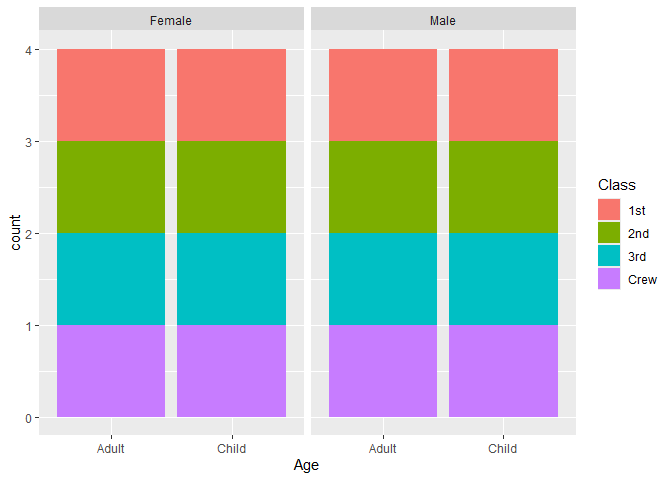
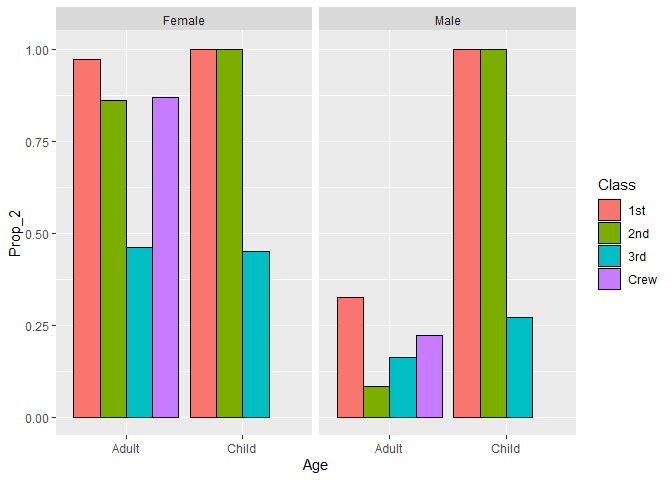
Resubmission for Challenge 01

diff --git a/challenges/c01-titanic-assignment.md b/challenges/c01-titanic-assignment.md
@@ -113,12 +113,6 @@ glimpse(df_titanic)
     ## $ Survived <chr> "No", "No", "No", "No", "No", "No", "No", "No", "No", "No", "…
     ## $ n        <dbl> 0, 0, 35, 0, 0, 0, 17, 0, 118, 154, 387, 670, 4, 13, 89, 3, 5…
 
-``` r
-?Titanic
-```
-
-    ## starting httpd help server ... done
-
 **Observations**:
 
 - Within the data of ‘df_titanic’, we can see the demographic of the
@@ -132,7 +126,8 @@ glimpse(df_titanic)
 ``` r
 ## NOTE: No need to edit! We'll cover how to
 ## do this calculation in a later exercise.
-df_titanic %>% summarize(total = sum(n))
+df_titanic %>% 
+  summarize(total = sum(n))
 ```
 
     ## # A tibble: 1 × 1
@@ -143,17 +138,25 @@ df_titanic %>% summarize(total = sum(n))
 **Observations**:
 
 - Write your observations here
+
 - Are there any differences?
+
   - Yes, it seems like there is a slight difference in the number of
-    people that were actually on board.
+    people that were actually on board. According to the article, the
+    estimated number of people on the titanic was 2224, which is
+    different the number that is given by the data set.
+
 - If yes, what might account for those differences?
-  - I could be that the data sets could have been created. More
-    specifically, the Titanic data set is from the British Board to
-    Trade in their investigation of the event. In the description of the
-    data set it mentions that there really isn’t a complete agreement
-    among primary resources about the exact number of people that were
-    on board, so this might be why we see some different numbers.
-  - …
+
+It is possible that these differences exist because of how and when that
+data or lists were updated. What I mean by this is the fact that
+currents at the crash site might have caused currents and may have maid
+it hard to find bodies of those who passed, therefore making it hard to
+dictate weather or not someone has actually died. After reading more of
+the Wiki article, it was made clear that there were several different
+reasons for why the numbers are different across sources, including the
+fact that there was confusion about passengers canceling their trip last
+minute and other passengers traveling under different aliases.
 
 ### **q3** Create a plot showing the count of persons who *did* survive, along with aesthetics for `Class` and `Sex`. Document your observations below.
 
@@ -162,25 +165,36 @@ df_titanic %>% summarize(total = sum(n))
 ``` r
 ## TASK: Visualize counts against `Class` and `Sex`
 
-survived <- 
-  df_titanic %>% filter(Survived == 'Yes')
+df_survived <- 
+  df_titanic %>% 
+  filter(
+    Survived == 'Yes'
+    )
 
-class_vs_sex <-
-  survived %>% select('Class', 'Sex')
-
-class_vs_sex %>% 
-    ggplot(aes(Class, fill = Sex)) +
-    geom_bar()
+df_survived %>% 
+ggplot(
+  aes(
+    x = Class,
+    y = n,
+    fill = Sex
+    )) +
+geom_col(position = "dodge")
 ```
 
 ![](c01-titanic-assignment_files/figure-gfm/q3-task-1.png)<!-- -->
 
 **Observations**:
 
-- Here I have a stacked bar chart where we have Class on the x-axis, the
-  count or number of the specific people that fall within those
-  categories and on the right I have a legend explaining what colors
-  represent what.
+- Above I have a stacked vertical bar chart what showcases the
+  relationship between the raw number of people that survived the
+  titanic tragedy, their class, and their sex. As we can see what have
+  some varying numbers, where the Male sex makes up the most of the Crew
+  survivors, where as for the rest of the classes are primary made up of
+  Females. It’s also very interesting to see that the 3rd class seems to
+  have about the same about of both Male and Female survivors. Id also
+  like to point out the fact that as we go down the classes, the less
+  likely the Females are to be those who survived and the Males became
+  the group who where more likely to survive.
 
 # Deeper Look
 
@@ -228,24 +242,47 @@ df_prop
 
 ``` r
 df_prop %>%
-  ggplot(aes(x = Class, fill = Prop), position = "dodge") +
-  geom_bar()
+  filter(
+    Survived == 'Yes'
+    ) %>% 
+
+ggplot(
+  aes(
+    x = Class,
+    y = Prop,
+    fill = Sex
+    )) +
+geom_col(color = "black", position = "dodge")
 ```
 
-    ## Warning: The following aesthetics were dropped during statistical transformation: fill.
-    ## ℹ This can happen when ggplot fails to infer the correct grouping structure in
-    ##   the data.
-    ## ℹ Did you forget to specify a `group` aesthetic or to convert a numerical
-    ##   variable into a factor?
+    ## Warning: Removed 2 rows containing missing values or values outside the scale range
+    ## (`geom_col()`).
 
 ![](c01-titanic-assignment_files/figure-gfm/q4-task-1.png)<!-- -->
 
 **Observations**:
 
-- Write your observations here.
+- Write your observations here. Here I have a stacked vertical Bar chart
+  showing the relationship between the Class and Sex of the Survivors of
+  the Titanic Tragedy. Specifically it takes into account the
+  proportions of the the groups themselves. Some observations I have is
+  the fact that (BEFORE THE BLACK LINES) the proportions for Male and
+  Female for the first and the second classes seem to be exactly the
+  same. In terms of the thirds and crew classes, it is clear to see that
+  the Females take up most of the survivors for the 3rd class and the
+  Females made up the majority of he survivors for the crew class. This
+  is pretty interesting because of the fact that this contradicts the
+  previous plot that I made where for the Crew class, the Males made up
+  almost the entity of the Crew Class.
+
 - Is there anything *fishy* going on in your plot?
-  - Yes, I am getting an error when aesthetics were dropped because
-    ggplot could not correct some information in the data set.
+
+  - Yes, it seems that because we are looking at proportion, there isn’t
+    exactly a distinction between Ages. This is very important because
+    before I implemented the black line to differentiate the
+    information, it wasent exactly clear that this was the case, but
+    after doing this, we can see and understand why the data may look
+    the way it does.
 
 ### **q5** Create a plot showing the group-proportion of occupants who *did* survive, along with aesthetics for `Class`, `Sex`, *and* `Age`. Document your observations below.
 
@@ -254,26 +291,55 @@ additional variables!
 
 ``` r
 df_surv_csa <- 
-  df_titanic %>% filter(Survived == 'Yes')
+  df_titanic %>%
+  group_by(Class, Sex, Age) %>%
+  mutate(
+    Total_2 = sum(n),
+    Prop_2= n / Total_2
+  ) %>%
+  ungroup()
 
-clas_sex_age <-
-  df_surv_csa %>% select('Class', 'Sex', 'Age')
-  
-clas_sex_age %>% 
-  ggplot(aes(Age, fill = Class), position = "dodge") +
-  geom_bar() +
-  facet_grid(~ Sex)
+df_surv_csa %>%
+  filter(
+    Survived == 'Yes'
+    ) %>% 
+  ggplot(
+  aes(
+    x = Age,
+    y = Prop_2,
+    fill = Class
+    )) +
+geom_col(position ="dodge", color = "black")+
+  facet_grid(~Sex)
 ```
+
+    ## Warning: Removed 2 rows containing missing values or values outside the scale range
+    ## (`geom_col()`).
 
 ![](c01-titanic-assignment_files/figure-gfm/q5-task-1.png)<!-- -->
 
-**Observations**: Here I have another stacked bar graph showing Age
-within the groups of Females and Male, and showing their respective
-classes. I think this wasn’t a bad way of representing the data. - - If
-you saw something *fishy* in q4 above, use your new plot to explain the
-fishy-ness. - I really can’t say that I see something fishy with graph,
-it is possible that I might have misread the last question incorrectly,
-to the point where I plotted the wrong thing.
+**Observations**: Here I have a stacked vertical Bar chart showing the
+relationship between the Class, Age,and Sex of the Survivors of the
+Titanic Tragedy. This visualization also taking into account the
+proportions for the given groups. Here we can have a better
+understanding of who made up the majority of the survivors. As we can
+see, both Adult and Child Females made up a good amount of the
+survivors, with the exceptions that there weren’t any children in the
+Crew class as they were not at an age where they could work. Moving on
+to the Male side of things, we can see that the Adults made up and very
+small proportion of the survivors where the Male Children made up a
+greater proportion. This it likely because of the fact that Children and
+Female adults were seen to be more worthy to save than adult men.
+
+- If you saw something *fishy* in q4 above, use your new plot to explain
+  the fishy-ness.
+
+  - This visualization gives us a better explanation of the fishiness
+    that we saw in the previous graph because in adding the Age element,
+    we no longer see the stacked amounts of data. This essentially
+    meaning that in incorporating the Age aspect in this visual, we get
+    a more descriptive and descriptive visual of the difference that Age
+    has in terms of survivors, when it came between Males and Females.
 
 # Notes
 
